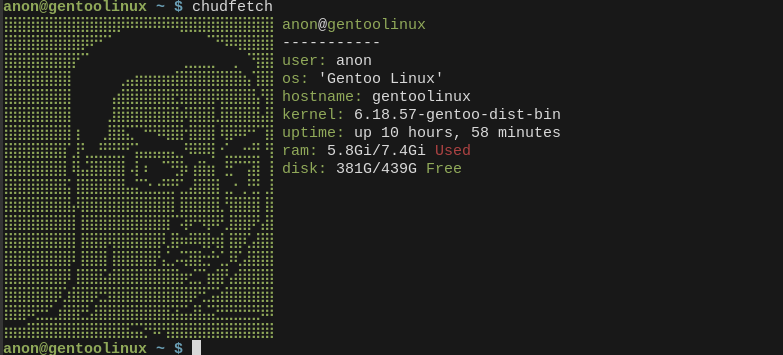
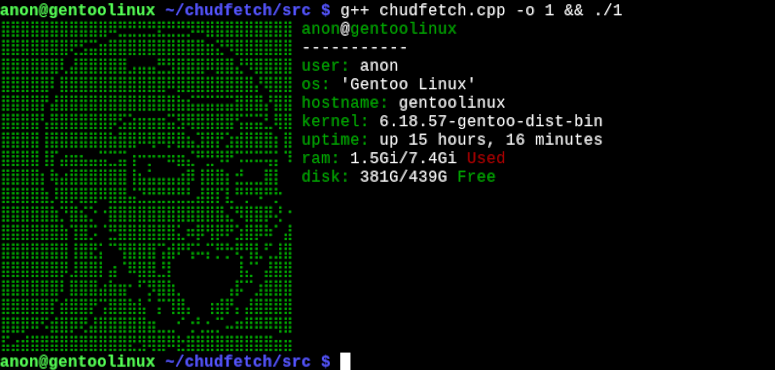
new art

Changed region(s): [[0.0, 0.0, 0.7742, 1.0], [0.6813, 0.0, 0.8052, 0.062]]

diff --git a/src/chudfetch.cpp b/src/chudfetch.cpp
@@ -65,41 +65,41 @@ int main() {
     std::string gpu   = sh("lspci | grep -i vga | cut -d: -f3-");
 
 
-   std::cout << gr <<"⣿⣿⣿⣿⣿⣿⣿⣿⣿⣿⣿⣿⣿⠿⠿⠿⠿⠿⠿⢿⣿⣿⣿⣿⣿⣿⣿⣿⣿⣿ " << gr << username << wh << "@" << gr << hostname() << "\n";
+   std::cout << gr <<"⣿⣿⣿⣿⣿⣿⣿⣿⣿⣿⣿⠿⣛⣛⣛⣛⣟⣛⣛⡻⠿⣿⣿⣿⣿⣿⣿⣿⣿⣿ " << gr << username << wh << "@" << gr << hostname() << "\n";
 
-   std::cout << "⣿⣿⣿⣿⣿⣿⣿⣿⣿⠿⠛⠉          ⠈⠙⠻⠿⣿⣿⣿⣿ " << wh << "-----------\n" << gr;
+   std::cout << "⣿⣿⣿⣿⣿⣿⣿⢟⣫⣭⣶⣿⣿⣿⣿⣿⣿⣿⣿⣿⣿⣶⣝⠻⣿⣿⣿⣿⣿⣿ " << wh << "-----------\n" << gr;
 
-   std::cout << "⣿⣿⣿⣿⣿⣿⣿⣿⠋⠁          ⣀⣀⣀⡀ ⢀ ⠙⣿⣿ user: "<< wh << username << gr << "\n";
+   std::cout << "⣿⣿⣿⣿⣿⣿⢇⣼⣿⣿⣿⣿⣿⣠⣤⣤⣛⣻⣿⣿⣿⠿⣿⣿⣜⠻⣿⣿⣿⣿ user: "<< wh << username << gr << "\n";
 
-   std::cout << "⣿⣿⣿⣿⣿⣿⣿⡇     ⣠⣴⣶⣶⣶⣶⣿⣿⣿⣿⣿⣿⣿⣷⡌⣿⣿ os: " << wh << os() << gr << "\n";
+   std::cout << "⣿⣿⣿⣿⣿⠇⣿⣿⣿⣿⣿⣿⣿⣿⣿⣿⣿⠿⣿⣿⣿⣿⣿⣿⣿⣿⡜⢿⣿⣿ os: " << wh << os() << gr << "\n";
 
-   std::cout << "⣿⣿⣿⣿⣿⣿⣿⡇    ⣴⣿⣿⣿⣿⣿⣿⣻⣿⣿⣿⡿⣿⣿⣿⣿⡜⣿ hostname: " << wh << hostname() << gr << "\n";
+   std::cout << "⣿⣿⣿⣿⡟⣼⣿⣿⣿⣿⣿⣿⣿⣿⣿⣿⣿⣿⣷⣮⣭⣭⣭⣭⣿⣿⣿⡜⣿⣿ hostname: " << wh << hostname() << gr << "\n";
 
-   std::cout << "⣿⣿⣿⣿⣿⣿⣿⡇   ⢀⣿⣿⣿⣿⣿⣿⣿⣷⢿⣿⣿⣇⣿⣿⣿⣿⣧⣿ kernel: " << wh << kernel << gr << "\n";
+   std::cout << "⣿⣿⣿⣿⢣⣿⣿⣿⣿⣿⣿⡿⣫⣵⣶⣶⣶⣭⣻⢿⣿⣿⣿⣿⢫⣭⣭⣃⢿⣿ kernel: " << wh << kernel << gr << "\n";
 
-   std::cout << "⣿⣿⣿⣿⣿⣿⣿⡇⡆  ⣸⣿⣯⡉⠙⠛⠿⣿⣿⢺⣿⣿⡇⢿⡿⠿⠛⠉⣿ uptime: " << wh << up << gr << "\n";
+   std::cout << "⣿⣿⣿⣿⢸⣿⣿⣿⣿⣿⣿⣷⣿⣿⠿⢿⠿⡿⣿⣦⣹⣿⡟⣱⣾⣿⣿⣿⡆⣿ uptime: " << wh << up << gr << "\n";
 
-   std::cout << "⣿⣿⣿⣿⣿⣿⣿⢁⡟⣀⣘⣛⣛⡛⢩⣤⣤⣤⣤⣀⠻⠿⠿⡇⢊⣀⣐⣚⡃⢻ ram: " << wh << ram << rd << " Used" << gr << "\n";
+   std::cout << "⣿⣿⣿⣿⢸⡏⣴⣶⣦⣤⣭⣉⣭⢰⠒⡒⠒⠶⣶⣌⠛⣛⠻⠟⠩⠭⠭⢭⡅⠹ ram: " << wh << ram << rd << " Used" << gr << "\n";
 
-   std::cout << "⣿⣿⣿⣿⣿⣿⣿⠸⣧⣽⣿⣿⣿⡇⢼⠰ ⠈⠙⣻⠆⣾⣷⡆⢘⡋⠉⣽⡇⢸ disk: " << wh << disk << gr << " Free" << "\n";
+   std::cout << "⣿⣿⣿⣿⡆⢷⣴⣿⣿⣿⣿⣿⣿⢸⣦⣥⣤⣤⣴⡿⢸⣿⣿⡆⣚⣀⣀⣿⡇  disk: " << wh << disk << gr << " Free" << "\n";
 
-   std::cout << "⣿⣿⣿⣿⣿⣿⣿⡅⣿⣿⣿⣿⣿⣧⣬⣉⣂⣚⣛⢋⣠⣿⣿⣿⢀⡐⢀⢛⡃⣸ " << "\n";
+   std::cout << "⣿⣿⣿⣿⣷⡸⣿⡿⣿⣿⠿⣿⣿⣬⣙⣛⣛⣛⣛⣃⣼⣿⡏⣇⠛⡛⠻⠛⡓  " << "\n";
 
-   std::cout << "⣿⣿⣿⣿⣿⣿⣿⣧⢿⣿⣿⣿⣿⣿⣿⣿⣿⣿⣿⢸⣿⣿⣿⣿⡘⣿⣿⣿⡇⣿ " << "\n";  
+   std::cout << "⣿⣿⣿⣿⣿⣷⡙⣿⣮⡑⠐⣿⣿⣿⣿⣿⣿⣿⣿⣿⣿⣿⣿⣌⠻⣿⣿⡿⢜⠐ " << "\n";  
 
-   std::cout << "⣿⣿⣿⣿⣿⣿⣿⣿⢸⣿⣿⣿⣿⣿⣿⣿⣿⣿⡏⠩⡿⠛⢿⠿⢃⣿⣿⡿⢣⣿   " << "\n";
+   std::cout << "⣿⣿⣿⣿⣿⣿⣷⢹⣿⡩⠈⣛⣿⣿⣿⣿⣿⣿⣅⠶⡿⢻⡿⠟⣱⣿⡿⠷⠁⣼   " << "\n";
 
-   std::cout << "⣿⣿⣿⣿⣿⣿⣿⣿⢸⣿⣿⡿⣿⣿⣿⣿⣿⡿⣸⡷⠾⠿⣿⢶⡇⣿⡿⣡⣿⣿   " << "\n";
+   std::cout << "⣿⣿⣿⣿⣿⣿⣿⢸⣿⣟⡅⠉⢻⣿⣿⣿⢩⣾⠟⢫⠥⡍⡛⡓⢟⢻⣇⢋⣸⣿   " << "\n";
  
-   std::cout << "⣿⣿⣿⣿⣿⣿⣿⡿⢸⣿⣿⡇⣿⣿⣿⣿⣿⢣⣁⠬⣽⣿⣒⠓⣁⠿⣡⣿⣿⣿   " << "\n";
+   std::cout << "⣿⣿⣿⣿⣿⣿⡿⣸⣿⣿⡇⣴⠈⠿⣿⣿⣘⡇      ⢸⣌⠁⣼⣿⣿   " << "\n";
 
-   std::cout << "⣿⣿⣿⣿⣿⣿⣿⠇⣿⣿⣿⣵⣿⣿⣿⣿⣿⣿⣿⣷⢖⣉⢱⣾⡟⣴⣿⣿⣿⣿   " << "\n";
+   std::cout << "⣿⣿⣿⣿⣿⣿⠇⣿⣿⣿⣴⣷⣶⠂⠋⡻⣿⣷⡀    ⢠⡯⠉⣰⣿⣿⣿   " << "\n";
  
-   std::cout << "⣿⣿⣿⣿⣿⣿⢏⣾⣿⣿⢟⣻⣿⣿⣿⣿⣿⣿⣿⣿⣿⠟⣋⣭⣾⣿⣿⣿⣿⣿   " << "\n";
+   std::cout << "⣿⣿⣿⣿⣿⡏⣾⣿⣿⡟⢩⣿⣿⣷⣧⠁⡍⢹⣿⡄ ⢰⣾⡟⡄⣼⣿⣿⣿⣿   " << "\n";
 
-   std::cout << "⣿⣿⡿⢟⣛⣁⣾⣿⣟⣣⣿⣿⣿⣿⣿⣿⣿⣿⣯⣯⣥⣿⣬⣝⣛⣛⣛⣛⡻⠿   " << "\n" ;
+   std::cout << "⣿⣿⡿⠿⠫⣾⣿⡿⢟⣼⣿⣿⣿⣿⣿⣶⣀⣀⠊⢐⢃⣂⡉⠤⠶⠿⠿⠿⢿⣿  " << "\n" ;
 
-  std::cout << "⣶⣶⣾⣿⣿⣿⣿⣿⣿⣿⣿⣿⣿⣿⣭⣝⠻⠟⣿⣿⣿⣿⣿⣿⣿⣿⣿⣿⣿⣿    " << "\n";
+  std::cout << "⣯⣴⣾⣿⣿⣿⣿⣿⣿⣿⣿⣿⣿⣟⣻⢿⣿⠿⣗⣿⣿⣿⣿⣿⣿⣿⣿⣿⣶⣶    " << "\n";
 
     return 0;
 }
